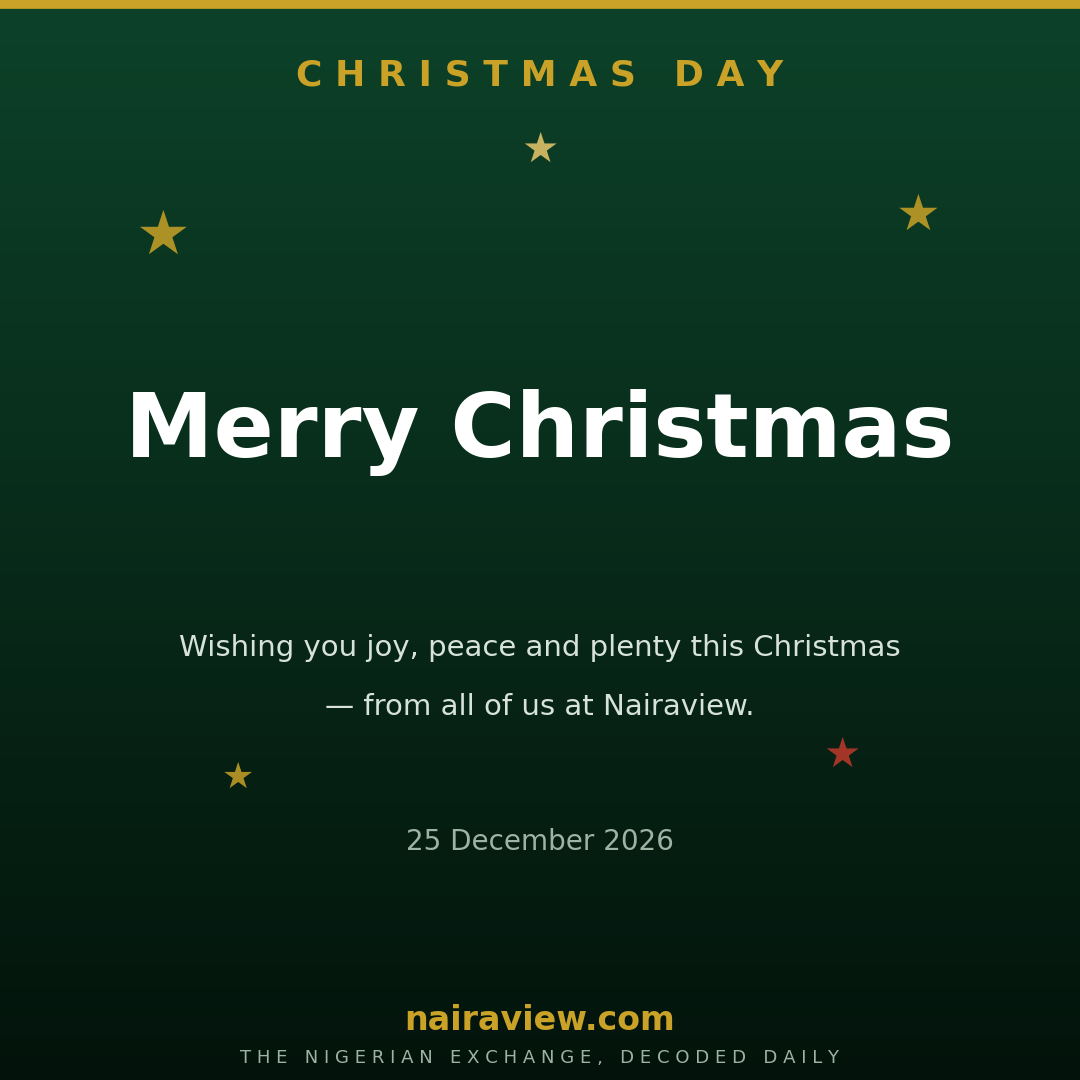
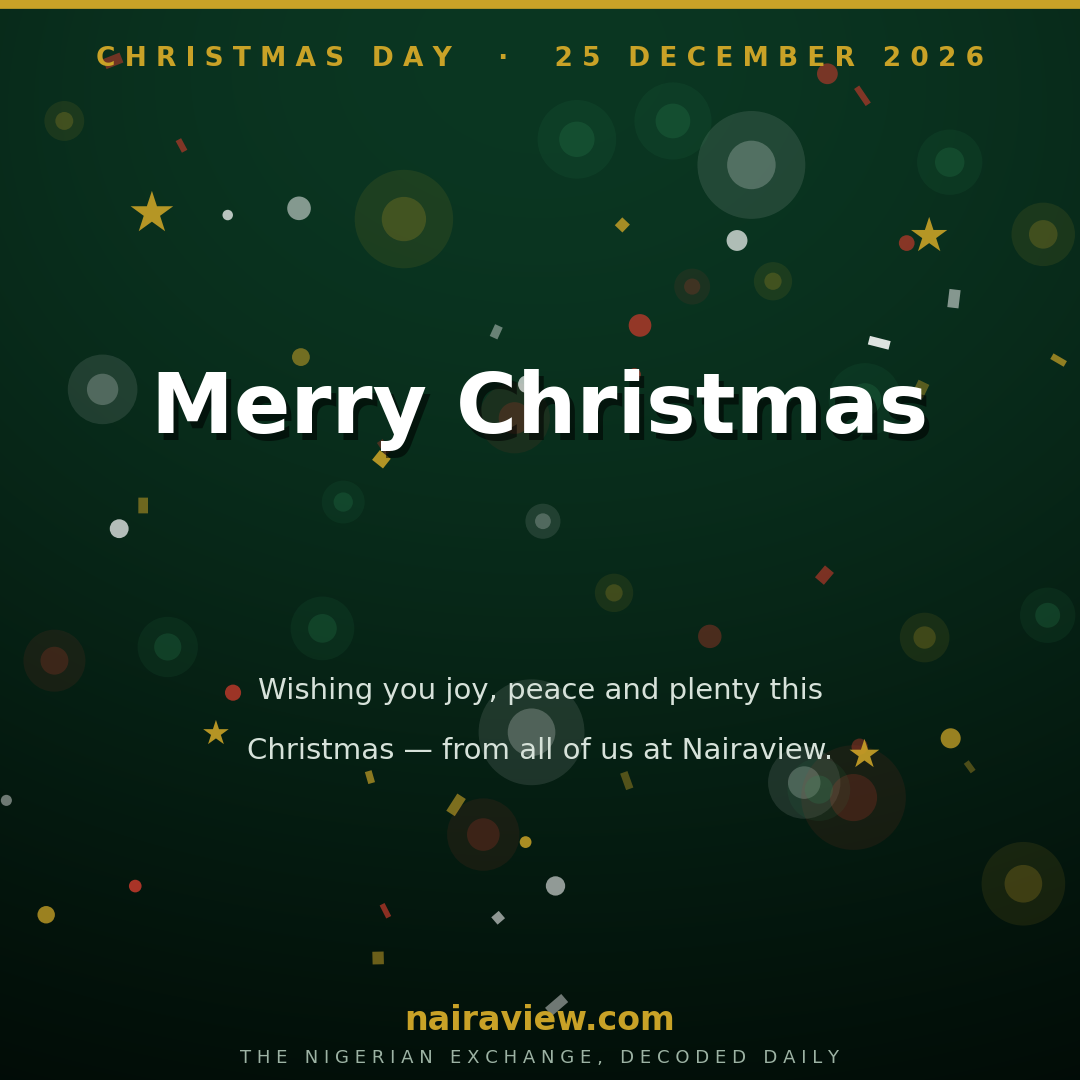
Holiday cards v2: waving flag, confetti, bokeh, fireworks; richer cinematic design

diff --git a/scripts/gen_holiday_graphics.py b/scripts/gen_holiday_graphics.py
@@ -1,9 +1,11 @@
 #!/usr/bin/env python3
-"""Nairaview holiday greeting card engine.
+"""Nairaview holiday greeting card engine v2.
 
 Renders square (1080x1080) and wide (1200x675) holiday greeting PNGs for
-the @Naira_view X account, in the same visual language as gen_infographics.py
-(deep-green gradient, gold accents, DejaVu Sans).
+the @Naira_view X account. Design language: cinematic dark-green brand
+canvas with dimensional hero elements — a waving Nigerian flag (wave
+displacement + fabric shading), floating confetti, bokeh, fireworks —
+and bold overlaid typography.
 
 Reads assets/img/holidays/holidays.json. Only holidays with a post_date get
 a card. Output: assets/img/holidays/<slug>-square.png / <slug>-wide.png.
@@ -29,33 +31,37 @@ HERE = os.path.dirname(os.path.abspath(__file__))
 CAL = os.path.join(HERE, "..", "assets", "img", "holidays", "holidays.json")
 OUT_DIR = os.path.join(HERE, "..", "assets", "img", "holidays")
 
-GREEN = "#087a4b"
 GOLD = "#c9a227"
 WHITE = "#ffffff"
 MUTED = "#9db3a4"
+NG_GREEN = "#008751"
 DEEP_TOP = "#0d4229"
 DEEP_BOT = "#03130b"
 RED = "#c0392b"
 
 plt.rcParams["font.family"] = "DejaVu Sans"
+rng = np.random.default_rng(20261001)
 
 
 def hex_to_rgb(h):
     h = h.lstrip("#")
-    return tuple(int(h[i:i + 2], 16) / 255.0 for i in (0, 2, 4))
+    return np.array([int(h[i:i + 2], 16) / 255.0 for i in (0, 2, 4)])
 
 
 def spaced(s):
-    return " ".join(s)  # hair spaces for letterspaced kickers
+    return " ".join(s)
 
 
 def new_canvas(w, h, top=DEEP_TOP, bot=DEEP_BOT):
     fig = plt.figure(figsize=(w / 100.0, h / 100.0), dpi=100)
-    t_col = np.array(hex_to_rgb(top))
-    b_col = np.array(hex_to_rgb(bot))
+    t_col, b_col = hex_to_rgb(top), hex_to_rgb(bot)
     t = np.linspace(0, 1, h)[:, None, None]
     img = t_col[None, None, :] * (1 - t) + b_col[None, None, :] * t
     img = np.repeat(img, w, axis=1)
+    # vignette: darken edges
+    yy, xx = np.mgrid[0:h, 0:w]
+    r = np.sqrt(((xx - w / 2) / (w / 2)) ** 2 + ((yy - h / 2) / (h / 2)) ** 2) / np.sqrt(2)
+    img *= (1 - 0.35 * np.clip(r, 0, 1) ** 2)[:, :, None]
     ax = fig.add_axes([0, 0, 1, 1])
     ax.imshow(img, extent=[0, 1, 0, 1], aspect="auto", zorder=0)
     ax.set_xlim(0, 1)
@@ -68,97 +74,200 @@ def new_canvas(w, h, top=DEEP_TOP, bot=DEEP_BOT):
 
 def kicker(ax, x, y, text, size, ha="center", color=GOLD):
     ax.text(x, y, spaced(text.upper()), ha=ha, va="center", fontsize=size,
-            fontweight="bold", color=color, transform=ax.transAxes, zorder=4)
+            fontweight="bold", color=color, transform=ax.transAxes, zorder=6)
 
 
-def motif(ax, theme):
-    """Per-holiday decorative motif, drawn subtly behind the headline."""
-    if theme == "nigeria":
-        # green-white-green ribbon across the upper third
-        for i, c in enumerate(["#008751", "#ffffff", "#008751"]):
+def shadow_text(ax, x, y, s, **kw):
+    z = kw.pop("zorder", 6)
+    ax.text(x + 0.004, y - 0.006, s, ha="center", va="center", color="black",
+            alpha=0.55, transform=ax.transAxes, zorder=z - 1,
+            fontsize=kw.get("fontsize", 20), fontweight=kw.get("fontweight", "normal"))
+    ax.text(x, y, s, ha="center", va="center", transform=ax.transAxes,
+            zorder=z, **kw)
+
+
+def waving_flag(ax, x0, y0, w, h, zorder=2, alpha=1.0):
+    """Nigerian flag as a floating, waving ribbon with fabric shading."""
+    n = 240
+    m = max(80, int(n * h / w))
+    u = np.linspace(0, 1, n)
+    v = np.linspace(0, 1, m)
+    U, V = np.meshgrid(u, v)
+    # fabric wave: stronger amplitude for visible folds
+    Z = 0.22 * np.sin(2 * np.pi * (2.1 * U + 0.6 * V) + 1.1) \
+        + 0.08 * np.sin(2 * np.pi * (4.9 * U - 1.2 * V) + 0.4)
+    dzdx = np.gradient(Z, axis=1)
+    bright = np.clip(1.0 - 3.0 * dzdx, 0.38, 1.35)
+    green, white = hex_to_rgb(NG_GREEN), np.ones(3)
+    base = np.where(U[..., None] < 1 / 3, green,
+                    np.where(U[..., None] < 2 / 3, white, green))
+    rgb = np.clip(base * bright[..., None], 0, 1)
+    # feather the left/right edges; ripple the top/bottom silhouette
+    # so the flag reads as floating fabric, not a banner
+    ripple = 0.07 * np.sin(2 * np.pi * 2.1 * U + 1.1)
+    top_mask = np.clip((0.985 + ripple - V) * 28, 0, 1)
+    bot_mask = np.clip((V - (0.015 + ripple)) * 28, 0, 1)
+    edge_u = np.clip(np.minimum(U, 1 - U) * 14, 0, 1)
+    edge = top_mask * bot_mask * edge_u
+    rgba = np.dstack([rgb, np.full_like(bright, alpha) * edge])
+    # soft drop shadow: dark blurred copy offset down-right
+    sh = np.zeros((m, n, 4))
+    sh[..., 3] = 0.4 * np.clip(edge, 0, 1)
+    ax.imshow(sh, extent=[x0 + 0.022, x0 + w + 0.022, y0 - 0.028, y0 + h - 0.028],
+              aspect="auto", zorder=zorder - 1, interpolation="bilinear")
+    ax.imshow(rgba, extent=[x0, x0 + w, y0, y0 + h], aspect="auto",
+              zorder=zorder, interpolation="bilinear")
+
+
+def confetti(ax, n, palette, y_lo=0.05, y_hi=0.95, s_min=6, s_max=16, zorder=3):
+    for _ in range(n):
+        x, y = rng.random(), y_lo + rng.random() * (y_hi - y_lo)
+        c = palette[rng.integers(len(palette))]
+        a = 0.35 + rng.random() * 0.55
+        if rng.random() < 0.45:
+            ax.add_patch(patches.Circle(
+                (x, y), rng.uniform(0.004, 0.011), transform=ax.transAxes,
+                facecolor=c, alpha=a, edgecolor="none", zorder=zorder))
+        else:
             ax.add_patch(patches.Rectangle(
-                (0.07 + i * 0.2867, 0.80), 0.2867, 0.045, transform=ax.transAxes,
-                facecolor=c, edgecolor="none", zorder=2, alpha=0.9))
-    elif theme == "christmas":
-        for x, y, s, c in ((0.15, 0.78, 44, GOLD), (0.85, 0.80, 36, GOLD),
-                           (0.78, 0.30, 30, RED), (0.22, 0.28, 26, GOLD),
-                           (0.5, 0.86, 30, "#e8c86a")):
-            ax.text(x, y, "\u2605", ha="center", va="center", fontsize=s,
-                    color=c, alpha=0.85, transform=ax.transAxes, zorder=2)
-    elif theme == "eid":
-        # gold crescent: filled circle + offset background circle
-        ax.add_patch(patches.Circle((0.5, 0.72), 0.075, transform=ax.transAxes,
-                                    facecolor=GOLD, edgecolor="none", zorder=2, alpha=0.9))
-        ax.add_patch(patches.Circle((0.525, 0.735), 0.065, transform=ax.transAxes,
-                                    facecolor=DEEP_TOP, edgecolor="none", zorder=2))
-        ax.text(0.60, 0.70, "\u2605", ha="center", va="center", fontsize=30,
-                color=GOLD, transform=ax.transAxes, zorder=2)
-    elif theme == "newyear":
-        # radiating gold rays from top center
-        for a in np.linspace(200, 340, 9):
-            r = np.radians(a)
-            ax.plot([0.5, 0.5 + 0.34 * np.cos(r)], [1.02, 1.02 + 0.30 * np.sin(r)],
-                    color=GOLD, alpha=0.28, lw=3, transform=ax.transAxes,
-                    zorder=2, clip_on=False)
-        for x, y, s in ((0.2, 0.82, 26), (0.8, 0.84, 32), (0.68, 0.30, 24)):
-            ax.text(x, y, "\u2605", ha="center", va="center", fontsize=s,
-                    color=GOLD, alpha=0.8, transform=ax.transAxes, zorder=2)
-    elif theme == "workers":
-        # bold upward chevrons
-        for i, y in enumerate((0.74, 0.79, 0.84)):
-            ax.text(0.5, y, "\u25b2", ha="center", va="center", fontsize=54,
-                    color=GOLD, alpha=0.25 + i * 0.18, transform=ax.transAxes,
-                    zorder=2, fontweight="bold")
-    # solemn / easter: no motif, restrained by design
+                (x, y), rng.uniform(0.008, 0.02), rng.uniform(0.005, 0.012),
+                angle=rng.uniform(0, 180), transform=ax.transAxes,
+                facecolor=c, alpha=a, edgecolor="none", zorder=zorder,
+                rotation_point="center"))
+
+
+def bokeh(ax, n, palette, y_lo=0.1, y_hi=0.9, zorder=2):
+    for _ in range(n):
+        x, y = rng.random(), y_lo + rng.random() * (y_hi - y_lo)
+        r = rng.uniform(0.015, 0.05)
+        c = palette[rng.integers(len(palette))]
+        ax.add_patch(patches.Circle((x, y), r, transform=ax.transAxes,
+                                    facecolor=c, alpha=0.10, edgecolor="none", zorder=zorder))
+        ax.add_patch(patches.Circle((x, y), r * 0.45, transform=ax.transAxes,
+                                    facecolor=c, alpha=0.22, edgecolor="none", zorder=zorder))
+
+
+def fireworks(ax, bursts, zorder=3):
+    for x, y, r, colors in bursts:
+        for _ in range(26):
+            a = rng.uniform(0, 2 * np.pi)
+            rr = r * (0.35 + rng.random() * 0.65)
+            c = colors[rng.integers(len(colors))]
+            ax.plot([x, x + rr * np.cos(a)], [y, y + rr * np.sin(a) * 0.7],
+                    color=c, alpha=0.75, lw=2.5, transform=ax.transAxes, zorder=zorder)
+        ax.add_patch(patches.Circle((x, y), 0.012, transform=ax.transAxes,
+                                    facecolor=WHITE, alpha=0.9, edgecolor="none", zorder=zorder))
+
+
+def crescent(ax, x, y, r, zorder=3):
+    ax.add_patch(patches.Circle((x, y), r, transform=ax.transAxes,
+                                facecolor=GOLD, edgecolor="none", zorder=zorder, alpha=0.95))
+    ax.add_patch(patches.Circle((x + r * 0.38, y + r * 0.22), r * 0.82,
+                                transform=ax.transAxes, facecolor=DEEP_TOP,
+                                edgecolor="none", zorder=zorder))
+    ax.text(x + r * 1.25, y + r * 0.1, "\u2605", ha="center", va="center",
+            fontsize=34, color=GOLD, transform=ax.transAxes, zorder=zorder)
+
+
+def light_beam(ax, x0, w_top, zorder=2, alpha=0.10):
+    ax.add_patch(patches.Polygon(
+        [[x0, 0], [x0 + w_top, 0], [x0 + w_top * 0.4 + 0.10, 1], [x0 - 0.10 + w_top * 0.4, 1]],
+        closed=True, transform=ax.transAxes, facecolor=WHITE,
+        alpha=alpha, edgecolor="none", zorder=zorder))
 
 
 def footer(ax, y=0.055):
     ax.text(0.5, y, "nairaview.com", ha="center", va="center", fontsize=24,
-            fontweight="bold", color=GOLD, transform=ax.transAxes, zorder=4)
+            fontweight="bold", color=GOLD, transform=ax.transAxes, zorder=6)
     ax.text(0.5, y - 0.035, spaced("THE NIGERIAN EXCHANGE, DECODED DAILY"),
             ha="center", va="center", fontsize=13, color=MUTED,
-            transform=ax.transAxes, zorder=4)
+            transform=ax.transAxes, zorder=6)
+
+
+def scene(ax, theme, w):
+    """Paint the hero scene for a theme. Returns (headline y, message y)."""
+    pal = [NG_GREEN, WHITE, GOLD]
+    if theme == "nigeria":
+        # flag is the hero up top; headline sits below it on dark canvas
+        # so white text never fights the flag's white stripe
+        waving_flag(ax, 0.07, 0.60, 0.86, 0.30, zorder=2)
+        confetti(ax, 70, pal, y_lo=0.08, y_hi=0.98, zorder=3)
+        return 0.46, 0.26
+    if theme == "christmas":
+        bokeh(ax, 26, [GOLD, RED, "#2e8b57", WHITE], zorder=2)
+        confetti(ax, 40, [GOLD, WHITE, RED], zorder=3)
+        for x, y, s in ((0.14, 0.80, 40), (0.86, 0.78, 34), (0.80, 0.30, 28), (0.20, 0.32, 24)):
+            ax.text(x, y, "\u2605", ha="center", va="center", fontsize=s,
+                    color=GOLD, alpha=0.9, transform=ax.transAxes, zorder=3)
+        return 0.62, 0.36
+    if theme == "eid":
+        crescent(ax, 0.5, 0.74, 0.085, zorder=2)
+        for x, y, s in ((0.24, 0.80, 26), (0.76, 0.82, 30), (0.82, 0.34, 24), (0.18, 0.36, 22)):
+            ax.text(x, y, "\u2605", ha="center", va="center", fontsize=s,
+                    color=GOLD, alpha=0.75, transform=ax.transAxes, zorder=3)
+        bokeh(ax, 12, [GOLD], zorder=2)
+        return 0.58, 0.36
+    if theme == "newyear":
+        fireworks(ax, [(0.28, 0.78, 0.16, [GOLD, WHITE]),
+                       (0.72, 0.82, 0.19, [GOLD, "#e8c86a", WHITE]),
+                       (0.52, 0.66, 0.12, [WHITE, GOLD])], zorder=2)
+        confetti(ax, 50, [GOLD, WHITE, "#e8c86a"], zorder=3)
+        return 0.60, 0.36
+    if theme == "workers":
+        for i, yy in enumerate((0.70, 0.76, 0.82)):
+            ax.text(0.5, yy, "\u25b2", ha="center", va="center", fontsize=64,
+                    color=GOLD, alpha=0.22 + i * 0.20, transform=ax.transAxes,
+                    zorder=2, fontweight="bold")
+        confetti(ax, 45, [GOLD, NG_GREEN, WHITE], zorder=3)
+        return 0.58, 0.36
+    if theme == "easter":
+        light_beam(ax, 0.38, 0.24, zorder=2, alpha=0.13)
+        bokeh(ax, 10, [GOLD, WHITE], zorder=2)
+        return 0.62, 0.36
+    # solemn and default: restrained
+    light_beam(ax, 0.44, 0.12, zorder=2, alpha=0.07)
+    return 0.62, 0.36
 
 
 def render(h, w, hgt, suffix):
     fig, ax = new_canvas(w, hgt)
-    motif(ax, h.get("theme", ""))
-    kicker(ax, 0.5, 0.93, h["name"], 26)
-    # headline, wrapped
+    theme = h.get("theme", "")
+    head_y, msg_y = scene(ax, theme, w)
+    d = datetime.strptime(h["post_date"], "%Y-%m-%d")
+    kicker(ax, 0.5, 0.945,
+           h["name"] + "  \u00b7  " + d.strftime("%d %B %Y").lstrip("0").upper(), 19)
+    # headline with drop shadow for legibility over the scene.
+    # Line breaks are computed once (square-tuned); wide just sizes up.
     words = h["greeting"].split()
     lines, cur = [], ""
-    max_chars = 22 if w == 1080 else 34
     for wd in words:
-        if len((cur + " " + wd).strip()) <= max_chars:
+        if len((cur + " " + wd).strip()) <= 17:
             cur = (cur + " " + wd).strip()
         else:
             lines.append(cur)
             cur = wd
     if cur:
         lines.append(cur)
-    size = 64 if w == 1080 else 72
-    if len(lines) > 2:
-        size = int(size * 0.82)
-    y = 0.60 if len(lines) == 1 else 0.64
+    if w == 1080:
+        size = 60 if len(lines) <= 2 else 48
+    else:
+        size = 84 if len(lines) == 1 else (64 if len(lines) == 2 else 56)
+    y = head_y + 0.05 * (len(lines) - 1)
     for ln in lines:
-        ax.text(0.5, y, ln, ha="center", va="center", fontsize=size,
-                fontweight="bold", color=WHITE, transform=ax.transAxes, zorder=4)
-        y -= 0.11
+        shadow_text(ax, 0.5, y, ln, fontsize=size, fontweight="bold",
+                    color=WHITE, zorder=6)
+        y -= 0.115
     # message
-    wrapped = textwrap.wrap(h["message"], width=48 if w == 1080 else 64)
-    y = 0.40
+    wrapped = textwrap.wrap(h["message"], width=46 if w == 1080 else 62)
+    y = msg_y
     for ln in wrapped[:3]:
         ax.text(0.5, y, ln, ha="center", va="center", fontsize=21,
-                color="#d7e2da", transform=ax.transAxes, zorder=4)
+                color="#d7e2da", transform=ax.transAxes, zorder=6)
         y -= 0.055
-    # date line
-    d = datetime.strptime(h["post_date"], "%Y-%m-%d")
-    ax.text(0.5, 0.22, d.strftime("%d %B %Y").lstrip("0"), ha="center",
-            va="center", fontsize=20, color=MUTED, transform=ax.transAxes, zorder=4)
     footer(ax)
     slug = h["date"]
     out = os.path.join(OUT_DIR, f"{slug}-{suffix}.png")
-    fig.savefig(out, dpi=100, bbox_inches="tight", pad_inches=0)
+    fig.savefig(out, dpi=100)
     plt.close(fig)
     print("wrote", out)
     return out
